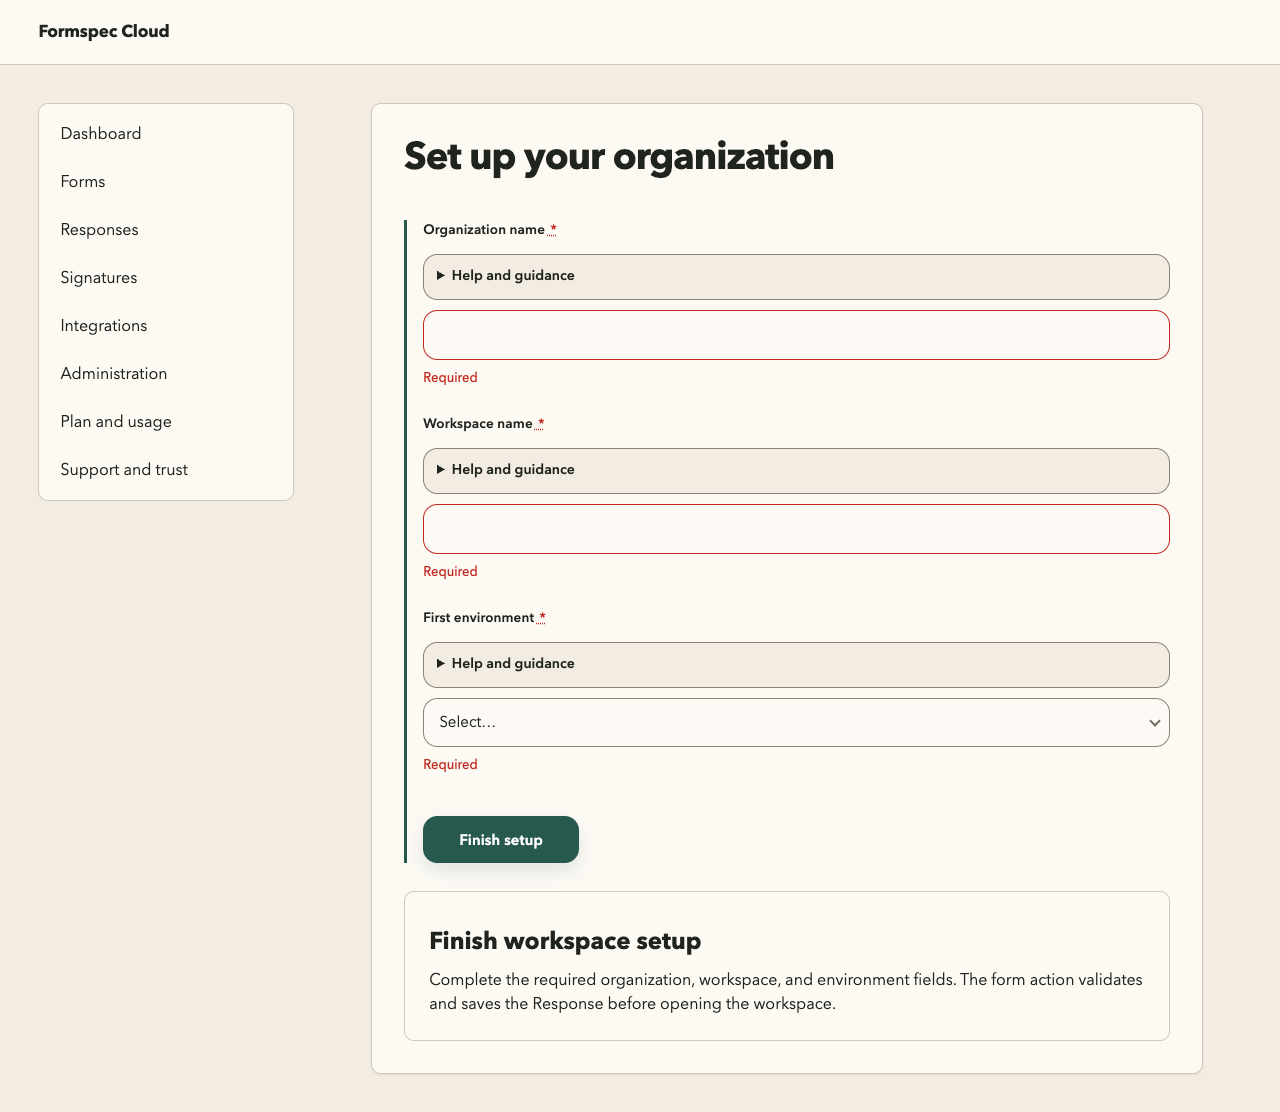
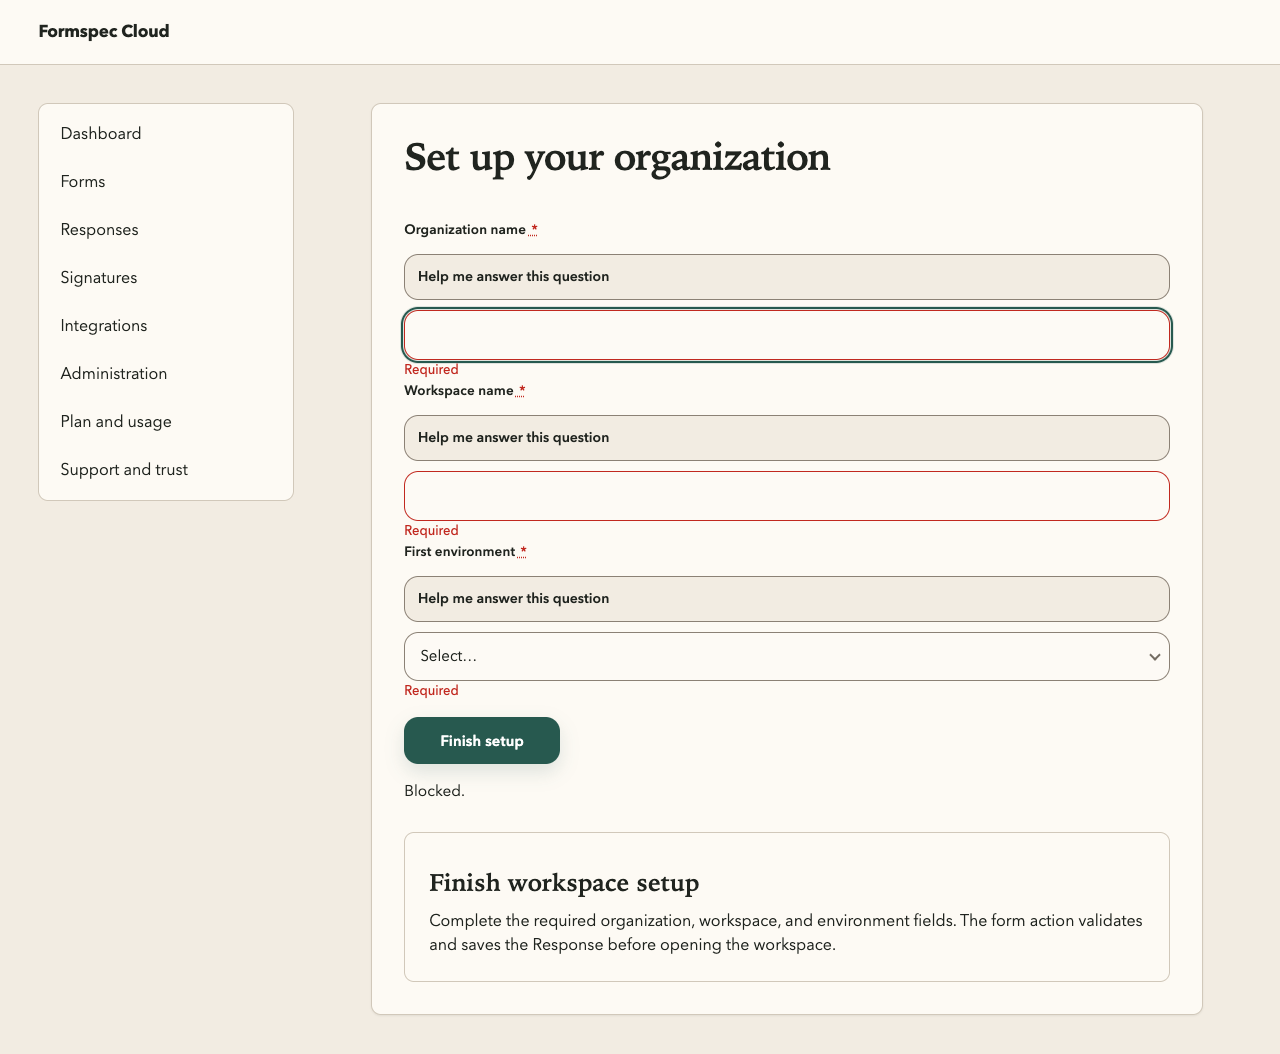
docs(evidence): recapture v12 Response selection evidence (fs-m1sf)
Refresh the v12 captures for main's shared typography and the updated
browser viewports. Capture the unrelated community-room route at
1280 × 720 and repin the screenshots and reviewed inputs.

Verified the 30 route and viewport checks, 75 route and profile checks,
and both 20-expectation outcome runs. The artifact verifier passed
all seven AppGraph phases for each bundle.

diff --git a/spikes/surface-v12-saas-v1-dogfood/evidence/result.md b/spikes/surface-v12-saas-v1-dogfood/evidence/result.md
@@ -11,7 +11,7 @@ structured data. Generic framework code supplies rendering, validation,
 responsive layout, accessible defaults, state storage, semantic controls and
 outputs, and evidence collection without product-specific branches.
 
-Reviewed input digest: `sha256:fb30fb637a26ed7153289b0c539991234f0feef560e527c0d746f3bb73fc317a`
+Reviewed input digest: `sha256:b8f631ac8d24d207a7b7d3438046b0b379cb4998f2b867f2ae29037b13ddd050`
 
 ## Structured artifact and reasoning result
 
@@ -50,13 +50,18 @@ become product approval.
 
 ## Browser result
 
-Playwright rendered all 15 routes and followed all 34 authored action paths
+The July 31 review rendered all 15 routes and followed all 34 authored action paths
 through their resolved controls and native action seams. It completed 30
 route-and-width checks and 75 profile-and-route checks across `loaded`, `empty`,
 `unavailable`, `error`, and `longContent`. The final browser pass also verified
 the repaired organization and public-response flows, the unrelated control,
 and the shared mobile toggle layout. It recorded no horizontal overflow,
 browser warning, or browser error.
+
+The November 17 recapture repeated the route, width, and profile checks with
+the WASM-backed preview store. It verified that a completed setup supplies
+the organization, workspace, and environment on Administration, and
+recaptured the public response and independent control journeys.
 
 The detailed review and pinned captures are in
 [`playwright-review.md`](./playwright-review.md) and

diff --git a/spikes/surface-v12-saas-v1-dogfood/evidence/playwright-review.md b/spikes/surface-v12-saas-v1-dogfood/evidence/playwright-review.md
@@ -1,8 +1,22 @@
 # v12 Playwright review
 
-Date: 2026-07-31
+Reviewed input digest: `sha256:b8f631ac8d24d207a7b7d3438046b0b379cb4998f2b867f2ae29037b13ddd050`
 
-Reviewed input digest: `sha256:fb30fb637a26ed7153289b0c539991234f0feef560e527c0d746f3bb73fc317a`
+## November 17, 2026 recapture
+
+The production preview build rendered 15 routes at desktop and mobile widths
+and completed 75 route and profile combinations. Each view had one page heading
+and fit its viewport. The browser reported zero warnings and errors. All 34
+authored action controls exposed a direct Need identity in their applicable states.
+
+Empty organization setup stayed on the form and flagged three fields. After a
+valid submission, Administration showed the recorded organization, workspace,
+and environment through the WASM-backed catalog read. Invalid public input
+stayed on the form. Valid input reached the verified receipt. The same host
+rendered the independent community-room bundle. The captures below are from
+this recapture.
+
+## July 31, 2026 review
 
 ## Result
 

diff --git a/spikes/surface-v12-saas-v1-dogfood/evidence/outcome-verification-review.md b/spikes/surface-v12-saas-v1-dogfood/evidence/outcome-verification-review.md
@@ -6,6 +6,18 @@ Browser: Chromium through Playwright
 Decision: the implementation cases pass; the formal demo claim remains held for
 human approval
 
+## November 17, 2026 recapture
+
+All nine screenshots changed from the July review because the host now uses
+main's shared typography and the browser checks use updated desktop and mobile
+viewports. The unrelated outcome has its own capture of the community-room
+route at 1280 × 720. The general control capture uses 1440 × 1000.
+
+The landing replay ran with Mapping-backed preview reads refused and absent
+selector inputs omitted. Eight captures reproduced exactly. The blocked-setup
+capture shows the same validation errors with different hover styling on the
+Finish setup button.
+
 ## Result
 
 The take-two audit found two false-success flows. Both are now implemented
